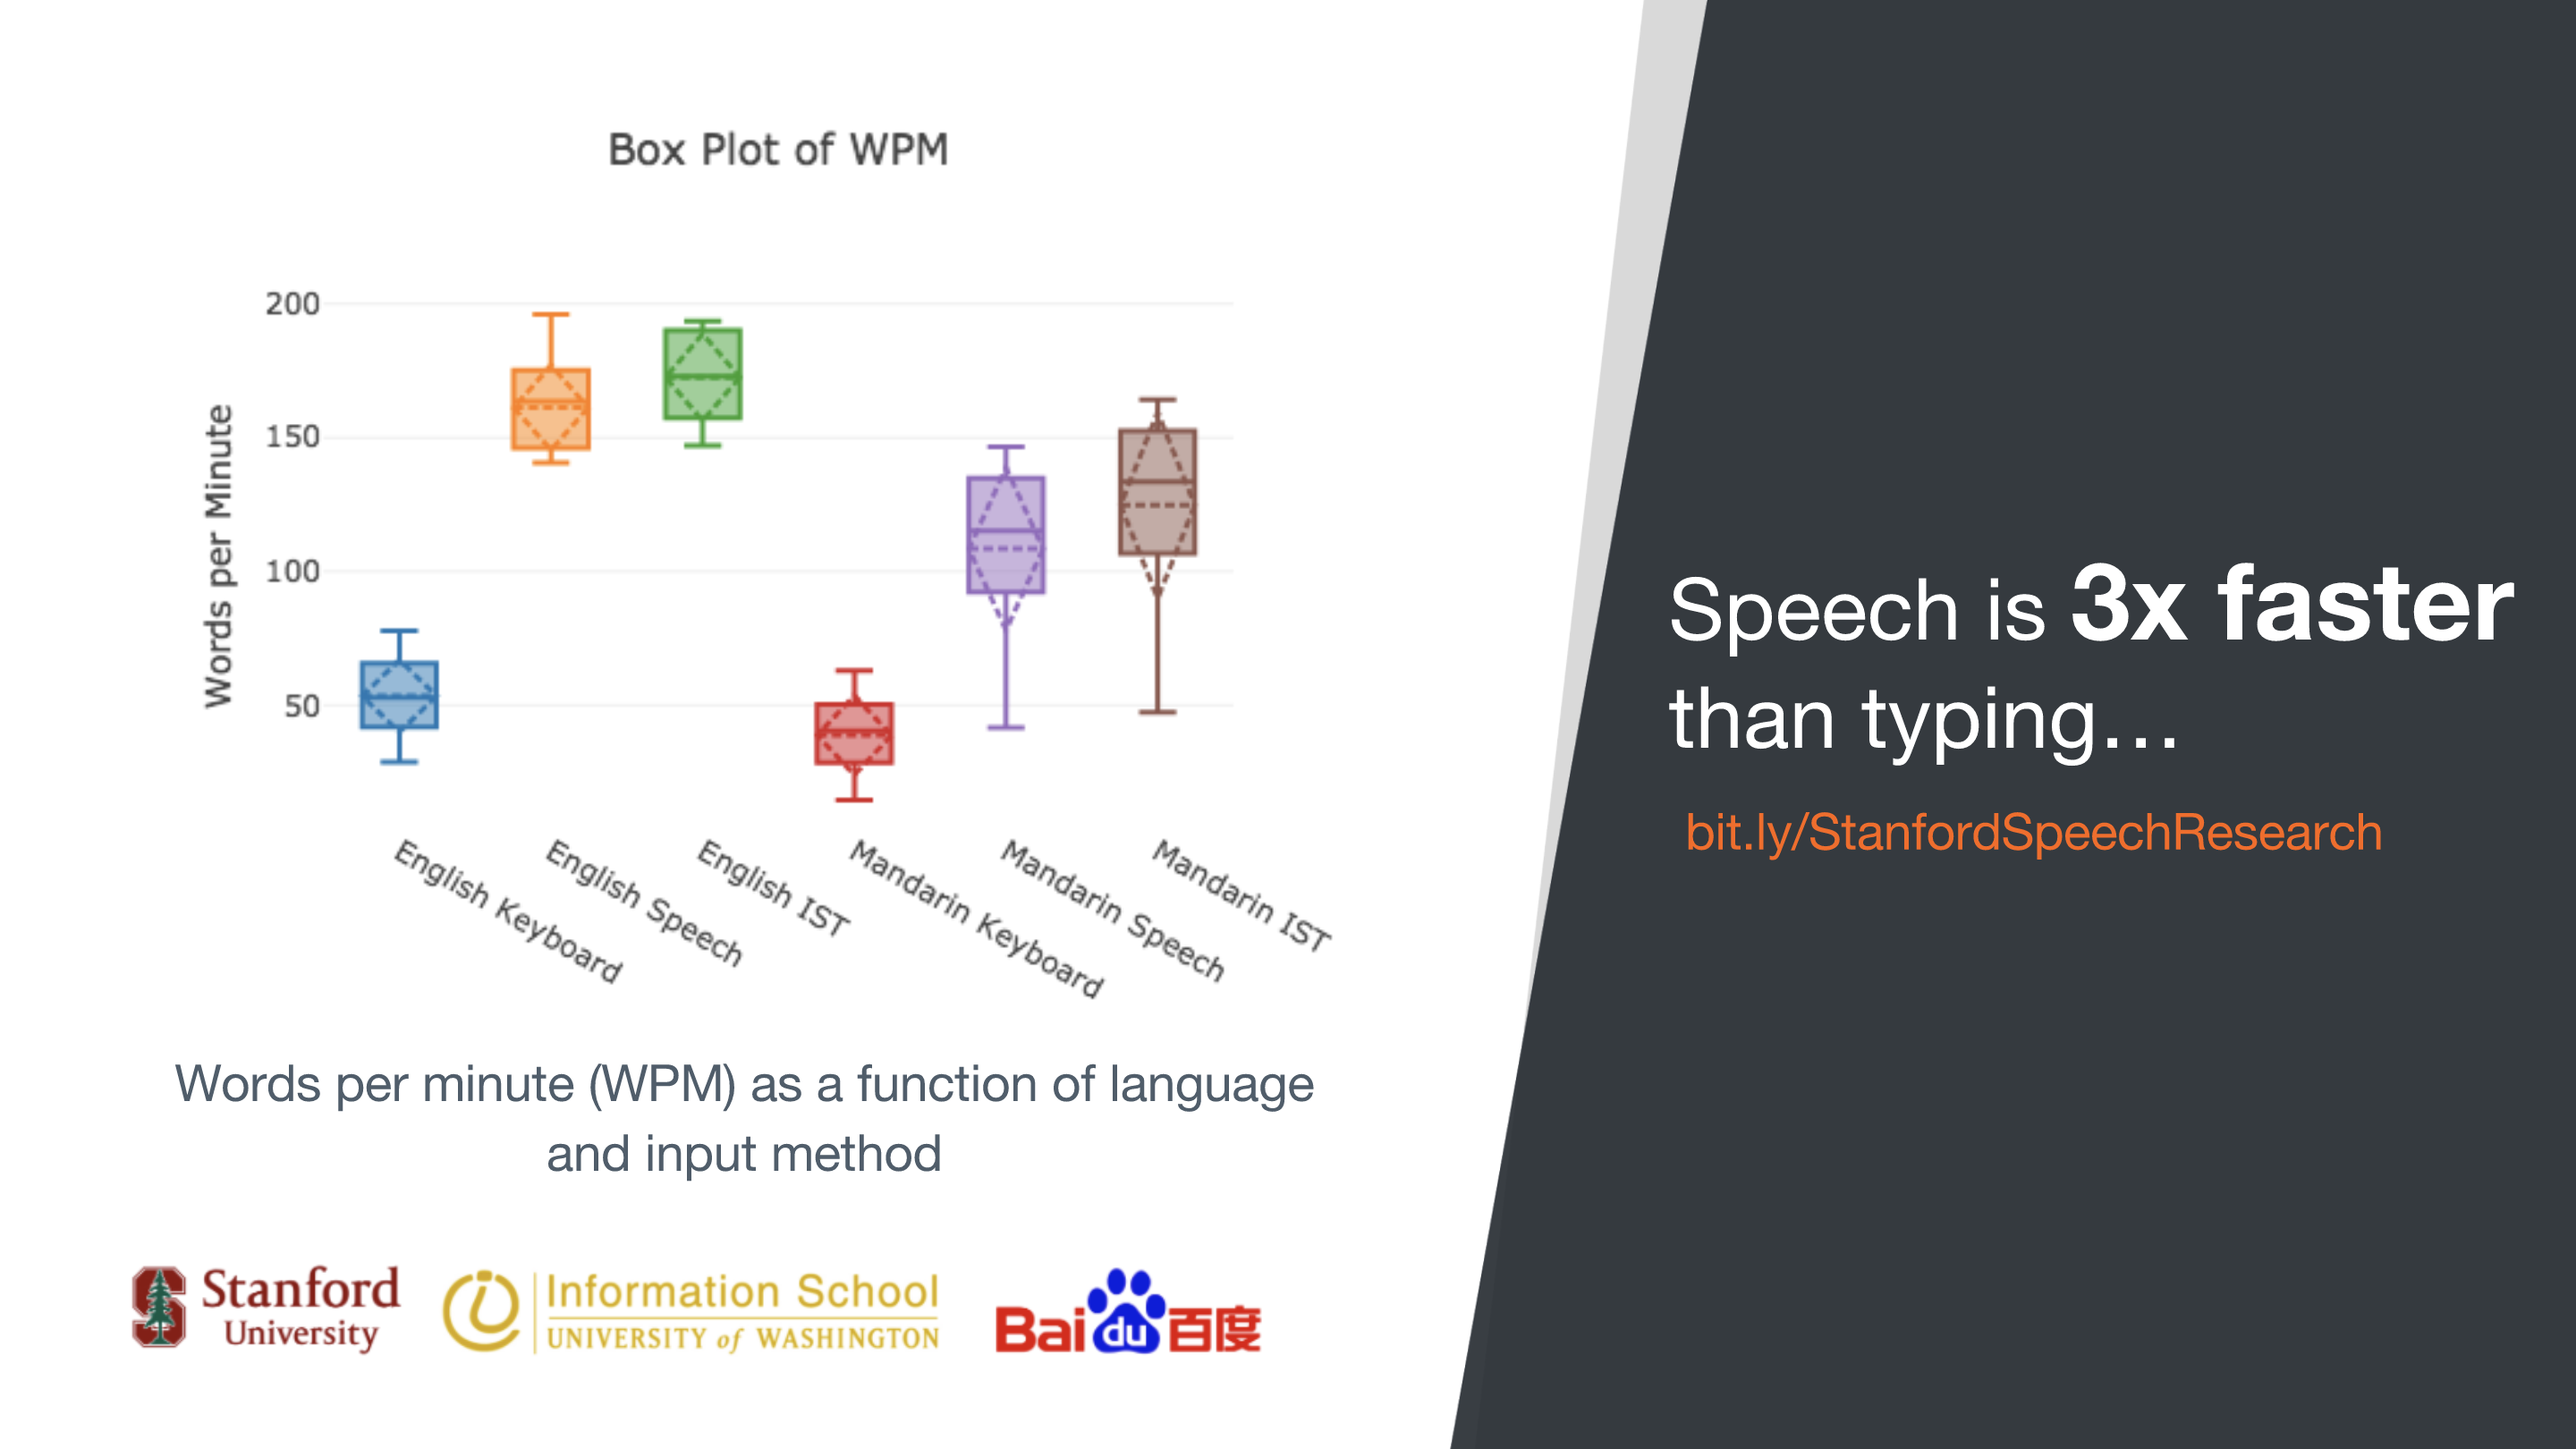
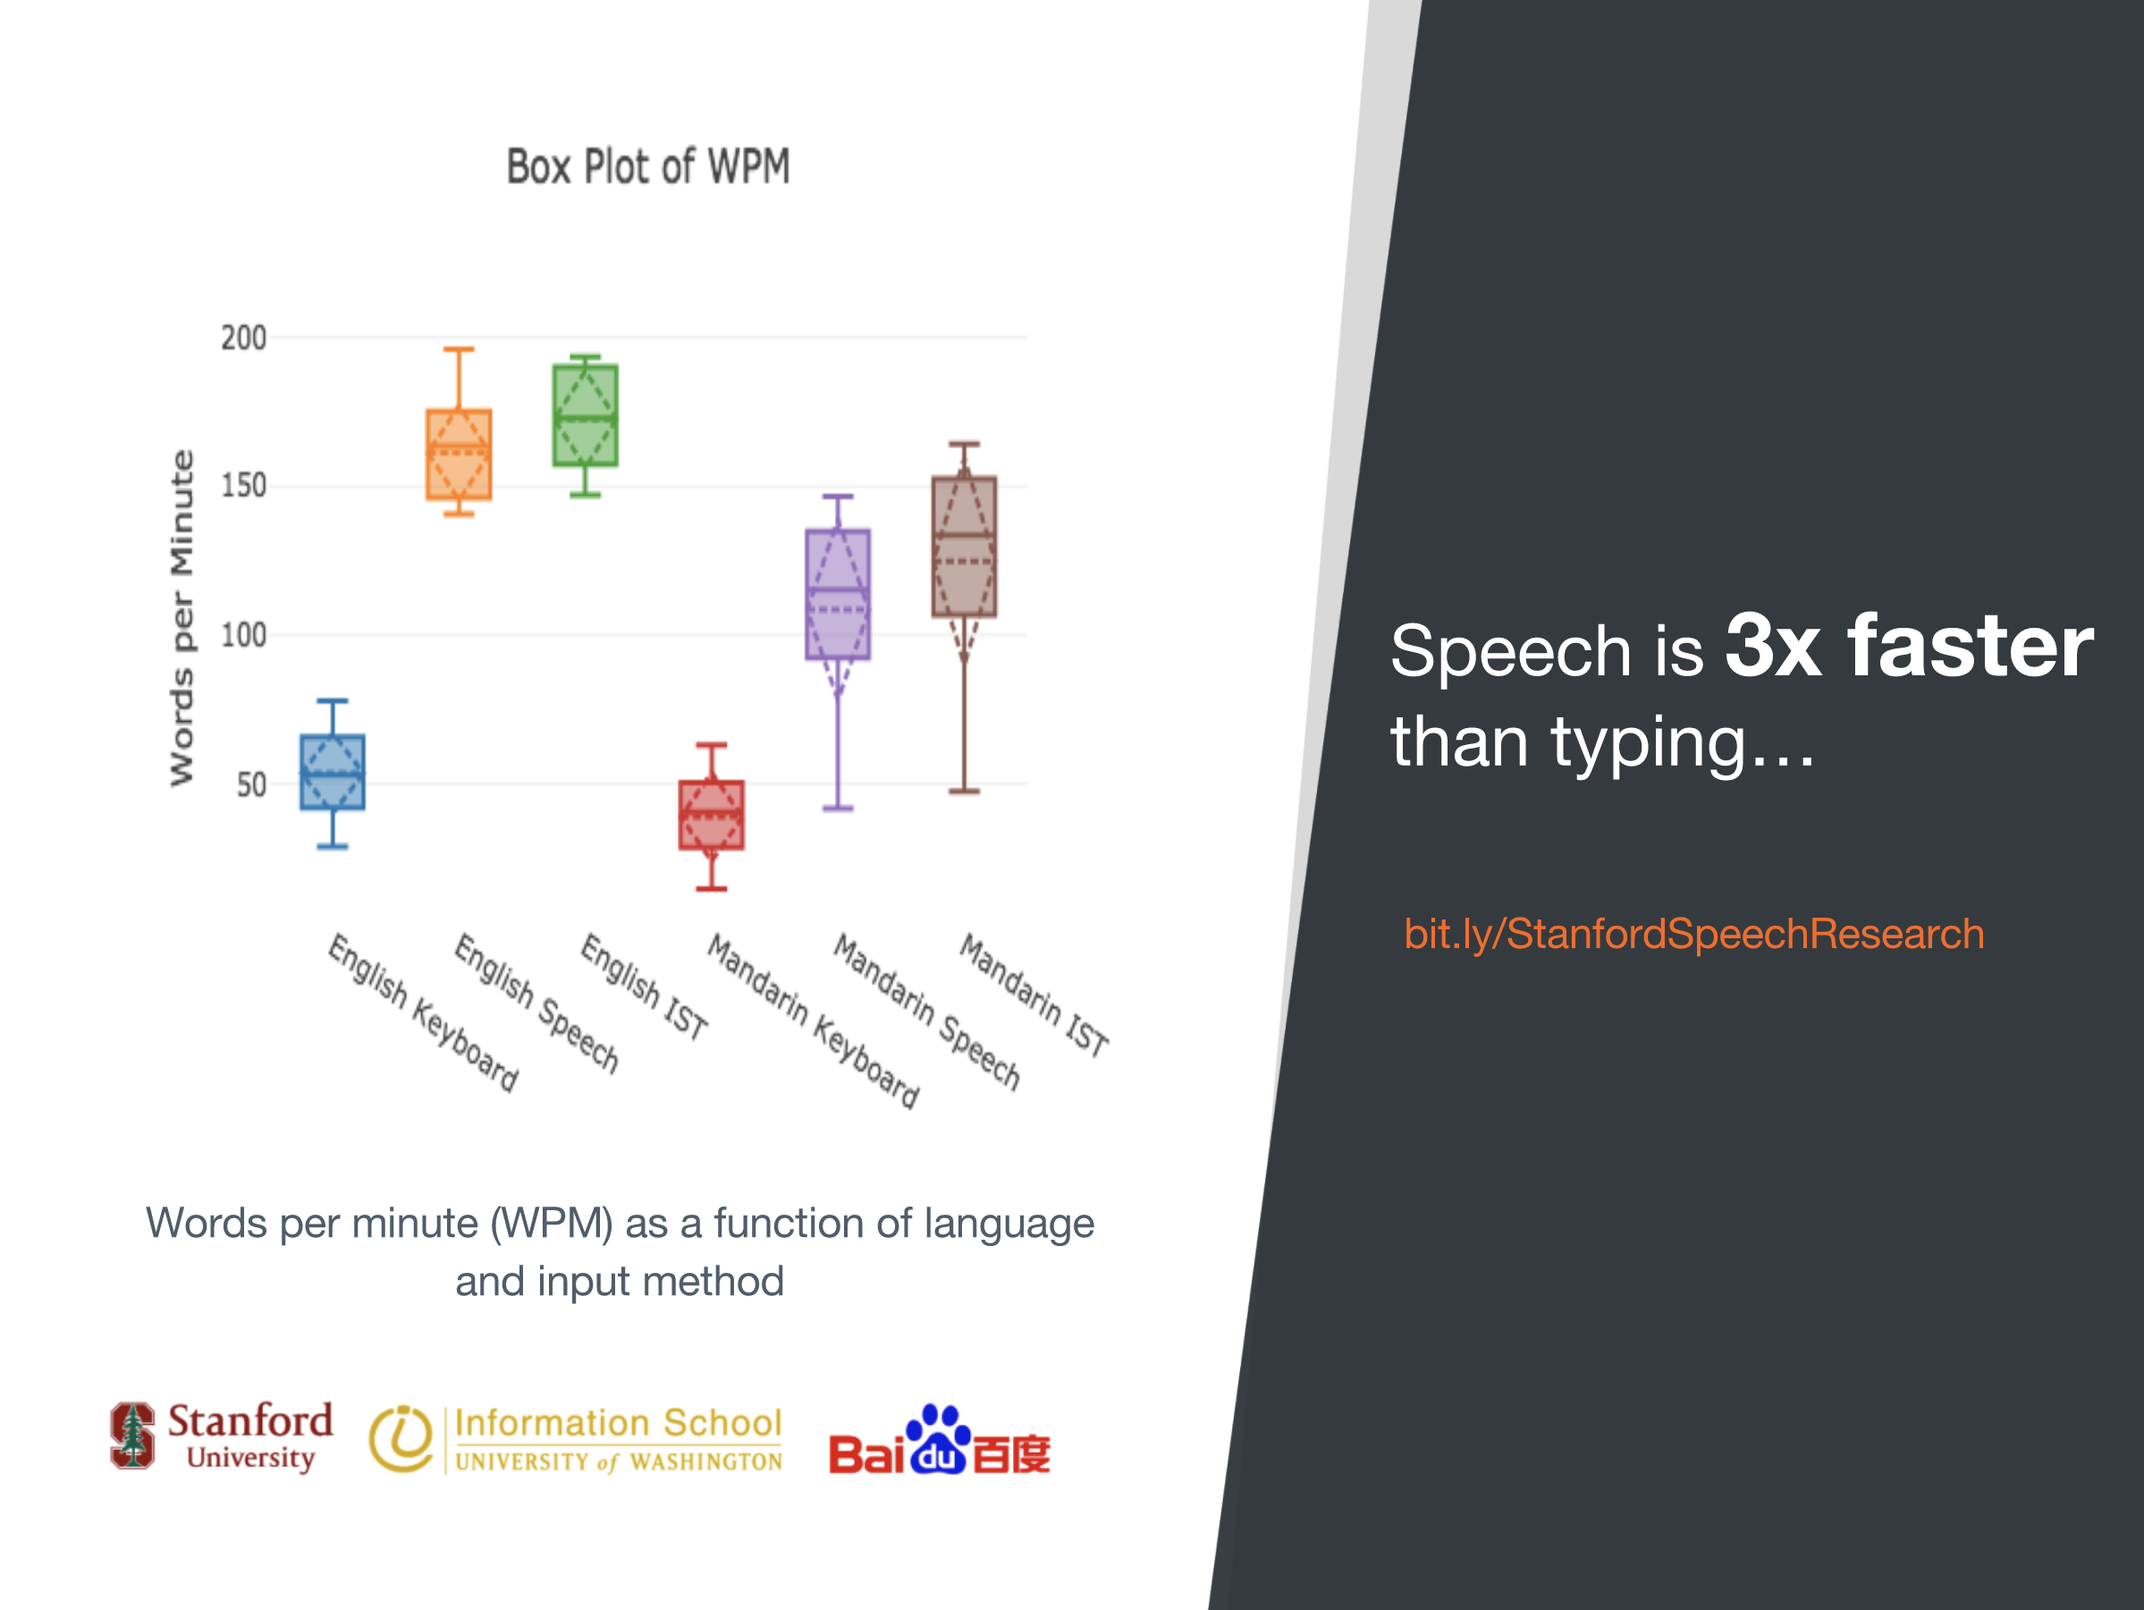
Changes slides to match projector aspect ratio (4:3)

diff --git a/css/styles.css b/css/styles.css
@@ -17,7 +17,7 @@
 }
 
 .reveal h2 {
-  font-size: 1.5em;
+  font-size: 1.75em;
 }
 
 .reveal .main {
@@ -46,11 +46,11 @@
 }
 
 .conf-logo {
-  top: 0;
+  top: -10%;
 }
 
 .conf-logo-secondary {
-  top: 15%;
+  top: 10%;
 }
 
 .hudl-logo {
@@ -108,7 +108,7 @@
 }
 
 .reveal .name-text {
-  margin-top: 100px;
+  margin-top: 50px;
   font-size: 1em;
 }
 
@@ -128,10 +128,9 @@
   font-size: .75em;
   text-align: left;
   height: 260px;
-  width: 60%;
+  width: 75%;
   overflow: hidden;
   margin: 0 auto;
-  margin-right: 30%;
   line-height: 1.2;
 }
 

diff --git a/index.html b/index.html
@@ -469,7 +469,7 @@ recognizer.stop();
 </section>
 
 <!-- SLIDE 26 -->
-<section data-background-image="img/hudl-layout-main.png" data-transition="fade" data-state="voice-visualizer speech-start">
+<section data-background-image="img/full-orange.jpg" data-transition="fade" data-state="voice-visualizer speech-start">
   <h3><span class="voice-visualizer">
     <svg preserveAspectRatio="none" id="visualizer-end" version="1.1" xmlns="http://www.w3.org/2000/svg" xmlns:xlink="http://www.w3.org/1999/xlink">
       <defs>
